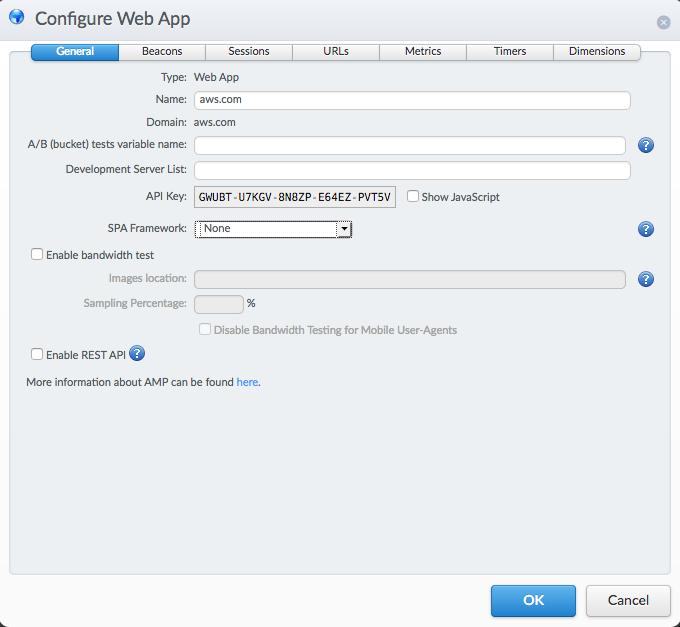
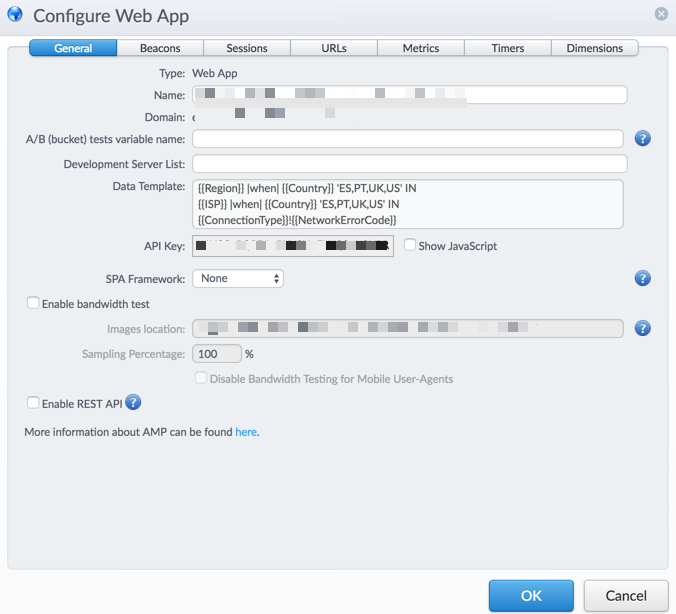
Added SPAs info into the Applications module and updated the image

diff --git a/02_Applications.md b/02_Applications.md
@@ -17,7 +17,9 @@ The domain name of the application has to be added to monitor the application fr
 Once the application is created, a random API Key is generated to uniquely identify the application.
 
 ### Javascript Snippet
-The Javascript code snippet needs to be copied and instrument the page in the \<header> tag of the HTML documents of the web application to monitor.
+
+#### HTML5 Web Applications
+The boomerang javascript code snippet needs to be copied and instrument the page in the \<header> tag of the HTML documents of the web application to monitor.
 
 The snippet basically creates a hidden iframe and calls a function that loads the boomerang library from mpulse site, adds the js to the iframe HTML and then fires the anonymous function "()" when the "onload" event triggers:
 
@@ -42,12 +44,26 @@ try {
 })();
 ```
 
-### Application Configuration
+#### Single Page Applications
+
+Boomerang monitors Single Page App (SPA) navigations differently than how it monitors navigations on traditional websites.
+
+On traditional websites, the browser completes a full navigation for every page. During this navigation, the browser requests the page’s HTML, JavaScript, CSS, etc., from the server, and builds the page from these components. Boomerang monitors this entire process.
+
+On SPA websites, only the first page that the visitor loads is a full navigation. All subsequent navigations are handled by the SPA framework itself (i.e. AngularJS), where they dynamically pull in the content they need to render the new page. This is done without executing a full navigation from the browser’s point of view.
+
+In this case, you will need to add an additional snippet within your SPA, so Boomerang can hook into your SPA framework events and send beacons to mPulse.
+
+For more info about SPAs, check the following:
+http://docs.soasta.com/boomerang/#single-page-apps
+
+### mPulse Application Configuration
 There are other optional parameters that can configured when creating the application:
 
 **1. General Tab**
   - A/B Bucket:  Variable (free text) that can be used for A/B tagging.  A/B testing (also known as split testing or bucket testing) is a method of comparing two versions of a webpage or app against each other to determine which one performs better.
   - Development Server List: List of servers, domain or sites (comma separated) that I want to exclude beacons from. The information entered in this field is not counted into your mPulse data, and it does not appear on your Dashboards.
+  - Data Template: Overrides country/region templates from the Tenant settings. Can be set only if the user has the "Tenant Adminstrator" permissions.
   - Bandwith Test: This is for measuring user bandwith distribution charts. It requires downloading the images from mPulse for and placing them in some web accesible location of the target server
 
 ![General Tab](./images/app_general_tab.png)
